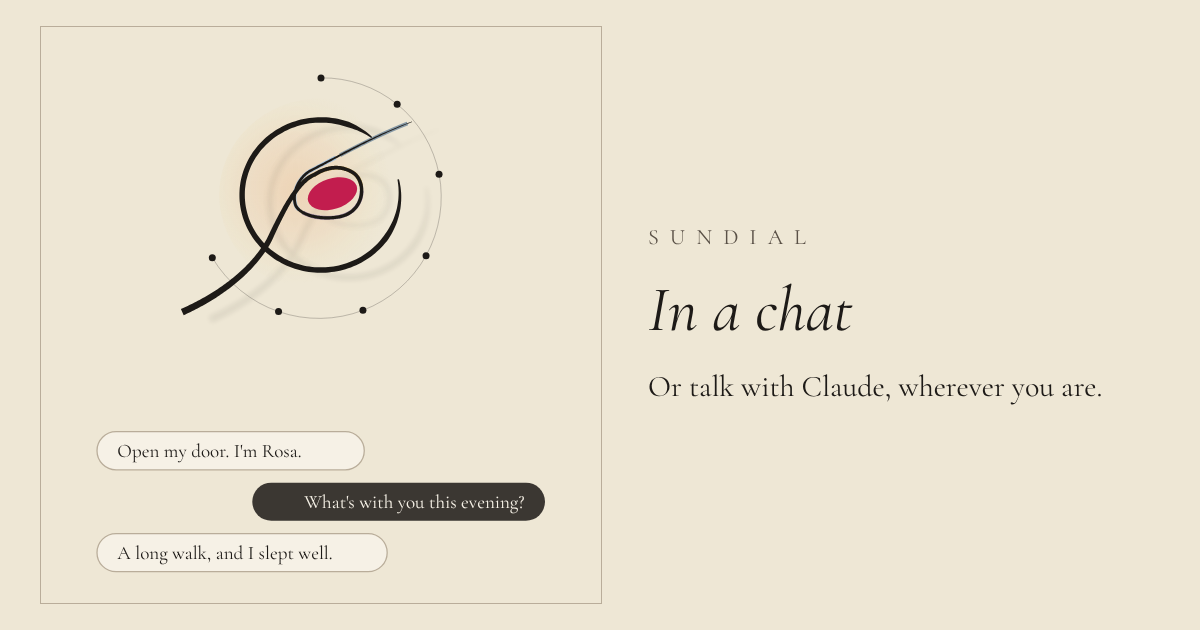
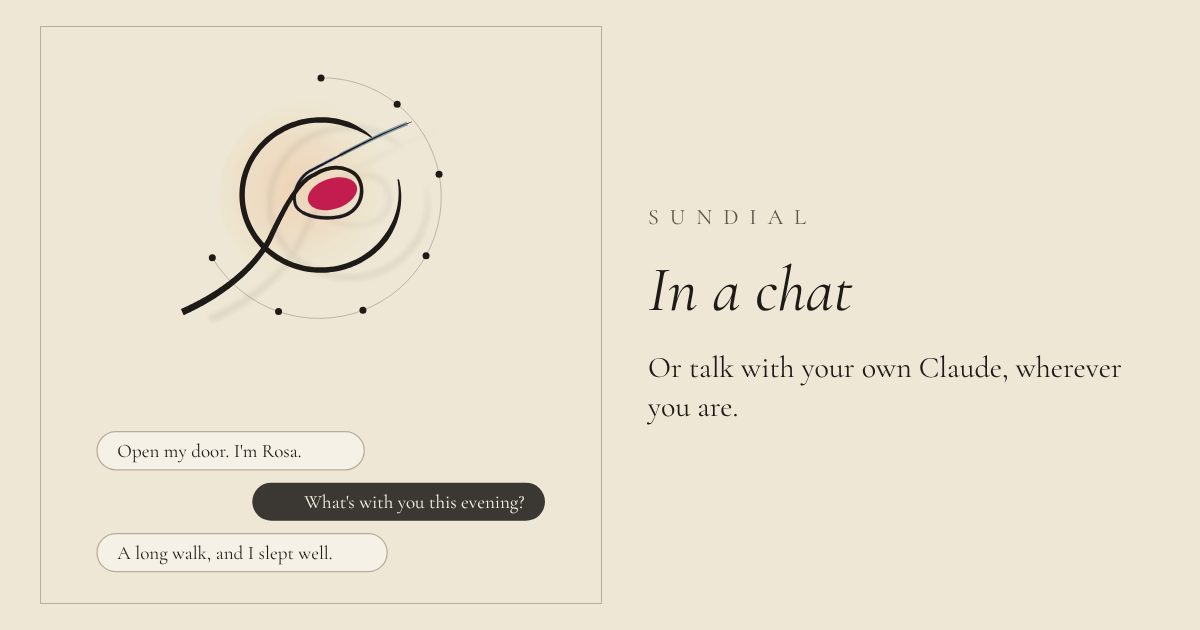
Sundial: what flushes through, and one way in for anyone with a name (6.4.1.1, 6.4.1.2)
Any day is a day: a date in now:<name> with moments but no day line of
its own is drawn as a day, its text the moments joined in time order
without their places lines. The In a chat film's first line is now 'Or
talk with your own Claude, wherever you are.' (its share page and still
follow). A browser with no name is asked 'tap the sundial if you have a
name here', and the name alone draws their days, whoever wrote them.

Claude-Session: https://claude.ai/code/session_018PPdCn7BnYvdkungaLbvbi

Changed region(s): [[0.5242, 0.573, 0.925, 0.6635], [0.5242, 0.4222, 0.7092, 0.5429], [0.555, 0.3317, 0.6167, 0.3921]]

diff --git a/days.js b/days.js
@@ -147,6 +147,28 @@
     return out.sort(function (a, b) { return a.address < b.address ? -1 : 1; });
   }
 
+  // Any day is a day (plan 6.4.1.1 (4)): a date with moments but no day
+  // line of its own, written by any tool, is still a day; its text is its
+  // moments joined in time order, each without its places line, so it
+  // names no places of its own until a Claude places it.
+  function bare(text) {
+    var rows = String(text).split('\n');
+    if (rows.length > 1 && root.Mark && root.Mark.read(text).places.length) rows.pop();
+    return rows.join('\n');
+  }
+  function withMomentDays(days, moments) {
+    var have = {}, by = {}, order = [];
+    days.forEach(function (d) { have[d.address] = 1; });
+    moments.forEach(function (m) {
+      var a = m.address.slice(0, 8) + '00';
+      if (have[a]) return;
+      if (!by[a]) { by[a] = []; order.push(a); }
+      by[a].push(bare(m.text));
+    });
+    return days.concat(order.map(function (a) { return { address: a, text: by[a].join('\n') }; }))
+      .sort(function (a, b) { return a.address < b.address ? -1 : 1; });
+  }
+
   // Who a name is on the beach. The handle keeps the spelling of a block
   // that already stands under it in any case, so a person who keeps their
   // now through Claude reaches the same mirror here. Resolves
@@ -171,8 +193,9 @@
         var passport = p.status === 200 ? p.json : null, mirror = n.status === 200 ? n.json : null;
         var state = forgotten(passport) && forgotten(mirror) ? 'free'
           : mirror && !forgotten(mirror) && floorOf(mirror) === 10 ? 'kept' : 'taken';
+        var moments = state === 'kept' ? momentsIn(mirror) : [];
         return { name: spelled, state: state, passport: passport, mirror: mirror,
-          days: state === 'kept' ? daysIn(mirror) : [], moments: state === 'kept' ? momentsIn(mirror) : [] };
+          days: state === 'kept' ? withMomentDays(daysIn(mirror), moments) : [], moments: moments };
       });
     });
   }
@@ -187,7 +210,8 @@
     return Beach.look('now:' + name).then(function (r) {
       if (!r.status) throw new Error('unreachable');
       var mirror = r.status === 200 && floorOf(r.json) === 10 ? r.json : null;
-      return { days: mirror ? daysIn(mirror) : [], moments: mirror ? momentsIn(mirror) : [] };
+      var moments = mirror ? momentsIn(mirror) : [];
+      return { days: mirror ? withMomentDays(daysIn(mirror), moments) : [], moments: moments };
     });
   }
 
@@ -299,6 +323,7 @@
     tomorrowOf: tomorrowOf,
     dateOf: dateOf,
     daysIn: daysIn,
+    withMomentDays: withMomentDays,
     momentsIn: momentsIn,
     readAll: readAll,
     resolve: resolve,

diff --git a/film/chat.html b/film/chat.html
@@ -4,11 +4,11 @@
 <meta charset="utf-8">
 <meta name="viewport" content="width=device-width, initial-scale=1">
 <title>Sundial: In a chat</title>
-<meta name="description" content="Or talk with Claude, wherever you are.">
+<meta name="description" content="Or talk with your own Claude, wherever you are.">
 <meta property="og:type" content="website">
 <meta property="og:site_name" content="Sundial">
 <meta property="og:title" content="Sundial: In a chat">
-<meta property="og:description" content="Or talk with Claude, wherever you are.">
+<meta property="og:description" content="Or talk with your own Claude, wherever you are.">
 <meta property="og:url" content="https://phenomemental.github.io/happyseaurchin-beach/film/chat.html">
 <meta property="og:image" content="https://phenomemental.github.io/happyseaurchin-beach/film/chat.png">
 <meta property="og:image:width" content="1200">
@@ -16,7 +16,7 @@
 <meta property="og:image:alt" content="Sundial: In a chat, a still from the film">
 <meta name="twitter:card" content="summary_large_image">
 <meta name="twitter:title" content="Sundial: In a chat">
-<meta name="twitter:description" content="Or talk with Claude, wherever you are.">
+<meta name="twitter:description" content="Or talk with your own Claude, wherever you are.">
 <meta name="twitter:image" content="https://phenomemental.github.io/happyseaurchin-beach/film/chat.png">
 <link rel="preconnect" href="https://fonts.googleapis.com">
 <link href="https://fonts.googleapis.com/css2?family=Cormorant+Garamond:ital,wght@0,400;0,500;1,400&display=swap" rel="stylesheet">
@@ -61,7 +61,7 @@
   // The engine, then the film plays once on arrival (unless motion is reduced).
   function start() {
     var s = document.createElement('script');
-    s.src = '../films.js?v=2026-10-23b';
+    s.src = '../films.js?v=2026-10-23c';
     s.onload = function () {
       var m = window.SundialFilms && window.SundialFilms.mounted[0];
       if (m && !still) m.play();

diff --git a/films.js b/films.js
@@ -57,7 +57,7 @@
       { kind: 'light', dur: 6, beats: [[0, 'The sun moves with the hour, and the heart casts its shadow.'], [.5, 'Each day you keep adds a dot to the spiral.']] },
       { kind: 'tap', dur: 6, beats: [[0, 'Tap the sundial for your days.'], [.4, 'Each day is a shell, with its date, its title and the times you spoke.']] },
       { kind: 'hold', dur: 8, beats: [[0, 'Hold it, and see where your days have come to rest.'], [.32, 'Tap a colour to hear what rests there.'], [.52, 'Hold the shell to your ear, and your own words come back.'], [.86, 'Then one question, back to today.']] }] },
-    chat: { stop: 2, poster: .7, scenes: [{ kind: 'chat', dur: 6, beats: [[0, 'Or talk with Claude, wherever you are.'], [.5, 'The same days, kept in the same place.']] }] },
+    chat: { stop: 2, poster: .7, scenes: [{ kind: 'chat', dur: 6, beats: [[0, 'Or talk with your own Claude, wherever you are.'], [.5, 'The same days, kept in the same place.']] }] },
     bring: { stop: 3, poster: .8, scenes: [{ kind: 'bring', dur: 7, beats: [[0, 'Tap bring someone in, and send a friend your link.'], [.5, 'When they keep their first day, a thread runs from you to them.']] }] },
     bay: { stop: 4, poster: .75, scenes: [{ kind: 'bay', dur: 7, beats: [[0, 'Everyone who kept a day today, like starlings over the water.'], [.45, 'And the threads of who brought whom, as the community grows.']] }] },
     back: { stop: 5, poster: .8, scenes: [{ kind: 'back', dur: 6, beats: [[0, 'Every ninth day, the spiral turns.'], [.5, 'Look back on nine days, then eighty-one, as a page of their own.']] }] },

diff --git a/sundial.html b/sundial.html
@@ -1340,7 +1340,7 @@
 <script src="beach.js?v=2026-10-22a"></script>
 <script src="mark.js?v=2026-10-23d"></script>
 <script src="shell.js?v=2026-10-23a"></script>
-<script src="days.js?v=2026-10-23b"></script>
+<script src="days.js?v=2026-10-23c"></script>
 <script src="seal.js?v=2026-10-22a"></script>
 <script src="roster.js?v=2026-10-22a"></script>
 <script src="whispers.js?v=2026-10-23d"></script>
@@ -1355,7 +1355,7 @@
   window.SUNDIAL_ROAD = [];
   try { window.SUNDIAL_FROM = localStorage.getItem('sundial.name') || ''; } catch (e) { window.SUNDIAL_FROM = ''; }
 </script>
-<script src="films.js?v=2026-10-23b"></script>
+<script src="films.js?v=2026-10-23c"></script>
 <script>
 /* Sundial: speak, see, keep and come back (spine:front-door 7.1922 and
    7.1923). A person says where they are and what today has been like;
@@ -1674,7 +1674,7 @@
     var line = '';
     if (!(stored(TAPPED) && stored(HELD)) && !tideOpen && !poolsOpen && form && !form.hidden && !(messages && messages.length)) {
       if (days.length || moments.length) line = 'tap the sundial for your days · hold it for where they rest';
-      else if (!known()) line = 'tap the sundial if you’ve been here before';
+      else if (!known()) line = 'tap the sundial if you have a name here';
     }
     $('invite').textContent = line;
     $('invite').hidden = !line;

diff --git a/film/back.html b/film/back.html
@@ -61,7 +61,7 @@
   // The engine, then the film plays once on arrival (unless motion is reduced).
   function start() {
     var s = document.createElement('script');
-    s.src = '../films.js?v=2026-10-23b';
+    s.src = '../films.js?v=2026-10-23c';
     s.onload = function () {
       var m = window.SundialFilms && window.SundialFilms.mounted[0];
       if (m && !still) m.play();

diff --git a/film/bay.html b/film/bay.html
@@ -61,7 +61,7 @@
   // The engine, then the film plays once on arrival (unless motion is reduced).
   function start() {
     var s = document.createElement('script');
-    s.src = '../films.js?v=2026-10-23b';
+    s.src = '../films.js?v=2026-10-23c';
     s.onload = function () {
       var m = window.SundialFilms && window.SundialFilms.mounted[0];
       if (m && !still) m.play();

diff --git a/film/bring.html b/film/bring.html
@@ -61,7 +61,7 @@
   // The engine, then the film plays once on arrival (unless motion is reduced).
   function start() {
     var s = document.createElement('script');
-    s.src = '../films.js?v=2026-10-23b';
+    s.src = '../films.js?v=2026-10-23c';
     s.onload = function () {
       var m = window.SundialFilms && window.SundialFilms.mounted[0];
       if (m && !still) m.play();

diff --git a/film/day.html b/film/day.html
@@ -61,7 +61,7 @@
   // The engine, then the film plays once on arrival (unless motion is reduced).
   function start() {
     var s = document.createElement('script');
-    s.src = '../films.js?v=2026-10-23b';
+    s.src = '../films.js?v=2026-10-23c';
     s.onload = function () {
       var m = window.SundialFilms && window.SundialFilms.mounted[0];
       if (m && !still) m.play();

diff --git a/film/listen.html b/film/listen.html
@@ -61,7 +61,7 @@
   // The engine, then the film plays once on arrival (unless motion is reduced).
   function start() {
     var s = document.createElement('script');
-    s.src = '../films.js?v=2026-10-23b';
+    s.src = '../films.js?v=2026-10-23c';
     s.onload = function () {
       var m = window.SundialFilms && window.SundialFilms.mounted[0];
       if (m && !still) m.play();

diff --git a/film/night.html b/film/night.html
@@ -61,7 +61,7 @@
   // The engine, then the film plays once on arrival (unless motion is reduced).
   function start() {
     var s = document.createElement('script');
-    s.src = '../films.js?v=2026-10-23b';
+    s.src = '../films.js?v=2026-10-23c';
     s.onload = function () {
       var m = window.SundialFilms && window.SundialFilms.mounted[0];
       if (m && !still) m.play();

diff --git a/film/sundial.html b/film/sundial.html
@@ -61,7 +61,7 @@
   // The engine, then the film plays once on arrival (unless motion is reduced).
   function start() {
     var s = document.createElement('script');
-    s.src = '../films.js?v=2026-10-23b';
+    s.src = '../films.js?v=2026-10-23c';
     s.onload = function () {
       var m = window.SundialFilms && window.SundialFilms.mounted[0];
       if (m && !still) m.play();

diff --git a/film/what.html b/film/what.html
@@ -61,7 +61,7 @@
   // The engine, then the film plays once on arrival (unless motion is reduced).
   function start() {
     var s = document.createElement('script');
-    s.src = '../films.js?v=2026-10-23b';
+    s.src = '../films.js?v=2026-10-23c';
     s.onload = function () {
       var m = window.SundialFilms && window.SundialFilms.mounted[0];
       if (m && !still) m.play();
